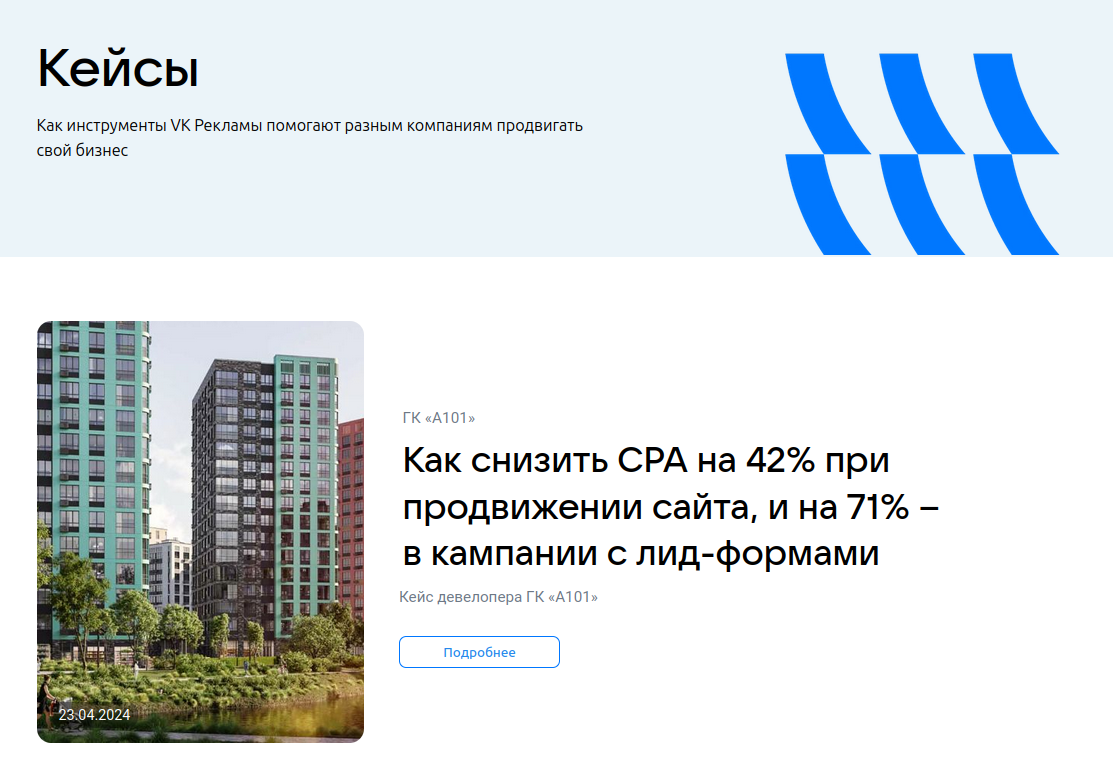
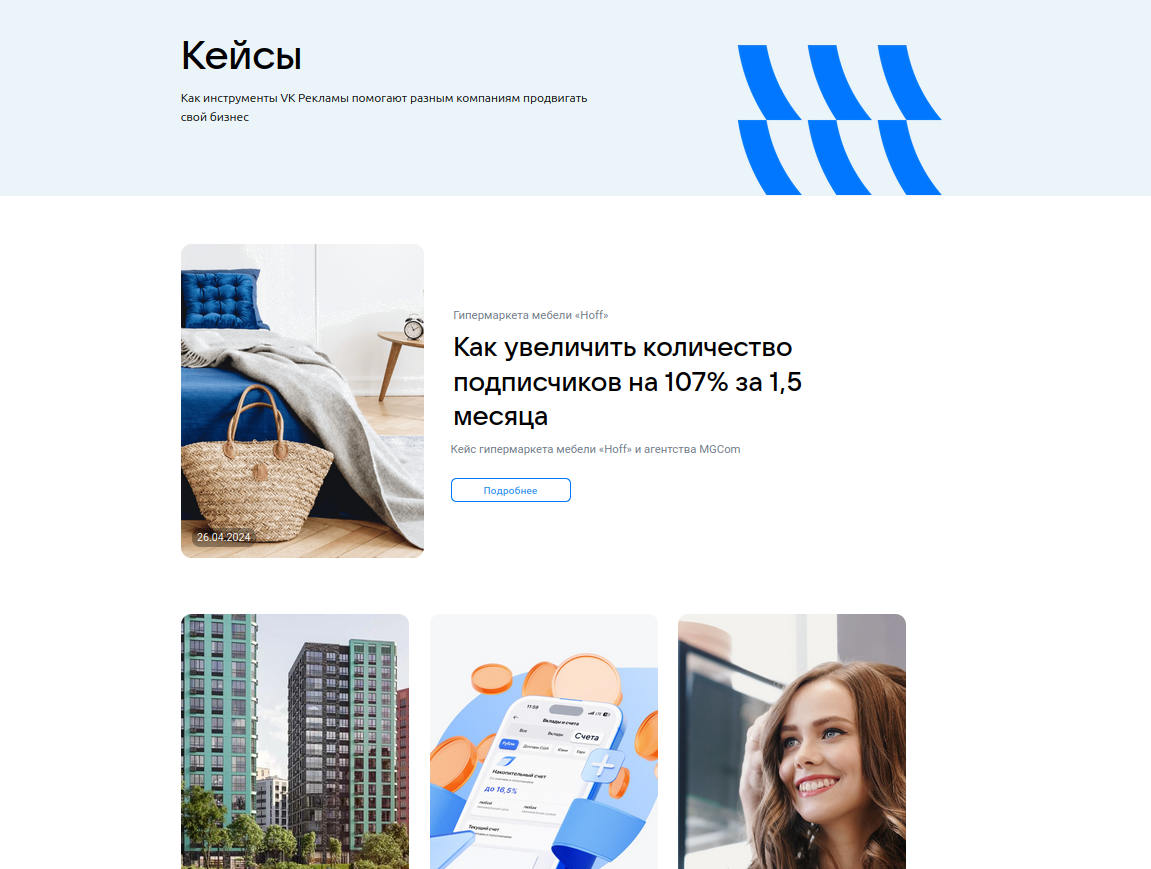
small fixes

diff --git a/AdDo-Анна-Гришина.md b/AdDo-Анна-Гришина.md
@@ -121,11 +121,11 @@
 
 ![news](images/news.png)
 
-- Новости. При нажатии на кнопку "Подробнее" открывается страница новости https://ads.vk.com/news/{str:title}
+- Новости. На странице отображается заголовок "Новости"
+- Новости. При нажатии на блок новости открывается страница с этой новостью
+- Новости. При нажатии на кнопку "Подробнее", находящуюся рядом с главной новостью, открывается страница с этой новостью
 
-![news2](images/news2.png)
-
-- Новости. При нажатии на блок новости открывается страница этой новости https://ads.vk.com/news/{str:title}
+![news_one](images/news_one.png)
 
 ## Полезные материалы
 
@@ -152,16 +152,11 @@
 
 ![cases](images/cases.png)
 
-- Кейсы. При нажатии на кнопку "Подробнее" открывается страница кейса https://ads.vk.com/cases/{str:title}
-
-![cases2](images/cases2.png)
-
+- Кейсы. На странице отображается заголовок "Кейсы"
 - Кейсы. При нажатии на блок кейса открывается страница этого кейса
+- Кейсы. При нажатии на кнопку "Подробнее", находящуюся рядом с главным кейсом, открывается страница этого кейса
 
-- Страница кейса. На странице есть разделы "Цели кампании", "Механика", "Результаты"
-- Страница кейса. При нажатии стрелку "Кейсы" открывается страница [Кейсы](#кейсы)
-- Страница кейса. При нажатии на кнопку с текстом "В кабинет" или "Запустить рекламу" внизу страницы
-в новой вкладке открывается [страница авторизации](#страница-авторизации)
+![one_case](images/one_case.png)
 
 ## Форум идей
 
@@ -177,7 +172,7 @@
 
 ### Комментарии 
 
-- Форум идей. Комментарии. При нажатии на значок комментария появляется список комментариев к идее
+- Форум идей. Комментарии. При нажатии на значок комментария появляются комментарии
 - Форум идей. Комментарии. Количество комментариев в списке совпадает с числом на значке комментария
 
 ![upvote_comments](images/upvote_comments.png)
